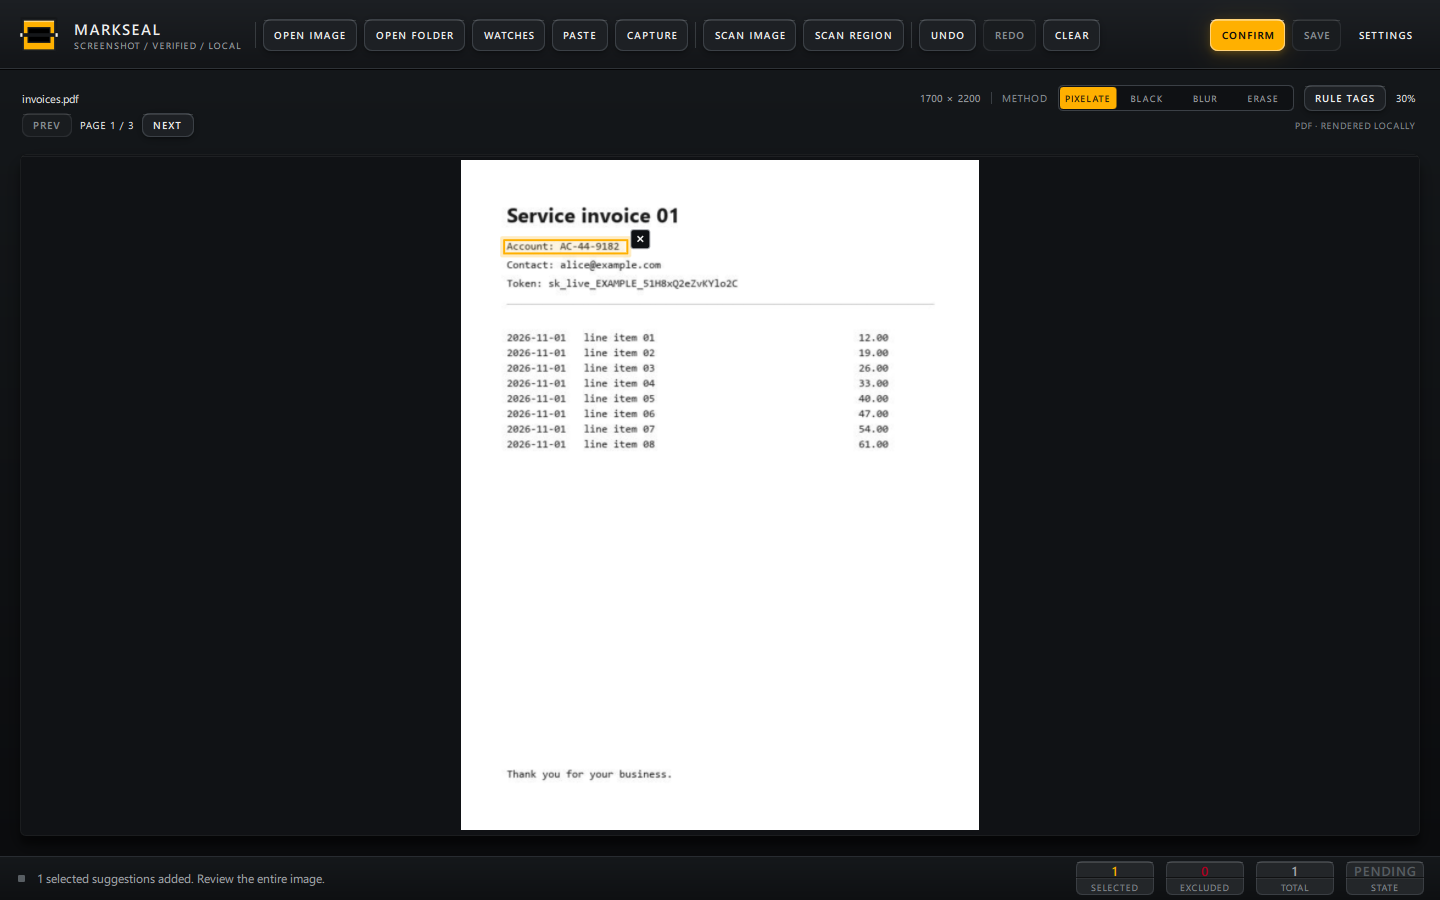
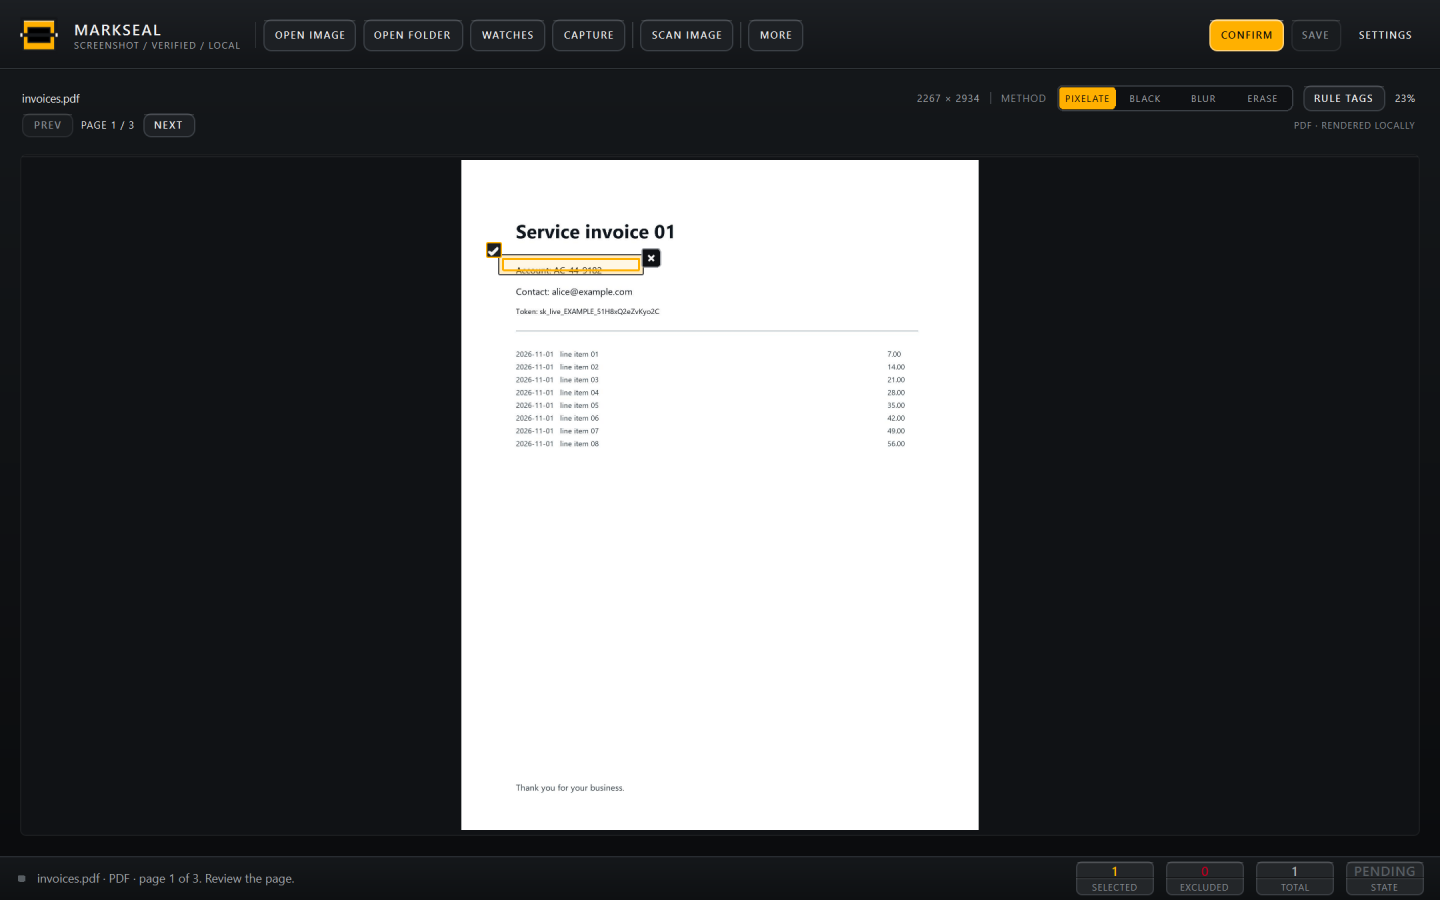
Simplify the review toolbar

diff --git a/markseal/qml/Toolbar.qml b/markseal/qml/Toolbar.qml
@@ -11,14 +11,11 @@ Item {
     signal captureClicked()
     signal watchesClicked()
 
-    readonly property bool wide: width >= 1360
-    readonly property bool scanWide: width >= 1240
     readonly property bool canScan: Backend.review.hasImage && !Backend.batch.busy && !Backend.review.confirmed
     readonly property bool canConfirm: Backend.review.hasImage && !Backend.batch.busy && !Backend.review.confirmed
 
     Shortcut {
         sequence: "Alt+M"
-        enabled: !toolbar.wide
         onActivated: overflow.popup(moreButton, moreButton.width - overflow.width,
                                     moreButton.height + 6)
     }
@@ -141,15 +138,6 @@ Item {
         }
 
         ConcourseButton {
-            text: "PASTE"
-            compact: true
-            tip: "Paste an image from the clipboard (Ctrl+V)"
-            visible: toolbar.wide
-            enabled: !Backend.batch.busy
-            onClicked: Backend.pasteImage()
-        }
-
-        ConcourseButton {
             text: "CAPTURE"
             compact: true
             tip: "Capture a region of the screen"
@@ -173,15 +161,6 @@ Item {
             onClicked: Backend.review.find()
         }
 
-        ConcourseButton {
-            text: "SCAN REGION"
-            compact: true
-            visible: toolbar.scanWide
-            tip: "Drag around one area to scan just that text"
-            enabled: toolbar.canScan
-            onClicked: Backend.review.beginScanArea()
-        }
-
         Rectangle {
             Layout.preferredWidth: 1
             Layout.preferredHeight: 26
@@ -190,55 +169,15 @@ Item {
         }
 
         ConcourseButton {
-            text: "UNDO"
-            compact: true
-            visible: toolbar.wide
-            tip: "Undo the last box (Ctrl+Z)"
-            enabled: Backend.review.hasImage && Backend.review.totalBoxes > 0
-            onClicked: Backend.review.undo()
-        }
-
-        ConcourseButton {
-            text: "REDO"
-            compact: true
-            visible: toolbar.wide
-            tip: "Redo the last undone box (Ctrl+Shift+Z)"
-            enabled: Backend.review.canRedo
-            onClicked: Backend.review.redo()
-        }
-
-        ConcourseButton {
-            text: "CLEAR"
-            compact: true
-            tip: "Remove every box from this image"
-            visible: toolbar.wide
-            enabled: Backend.review.hasImage && Backend.review.totalBoxes > 0
-            onClicked: Backend.review.clearBoxes()
-        }
-
-        ConcourseButton {
             id: moreButton
             text: "MORE"
             compact: true
             tip: overflow.visible ? "" : "More actions (Alt+M)"
-            visible: !toolbar.wide
             onClicked: overflow.popup(moreButton, moreButton.width - overflow.width,
                                       moreButton.height + 6)
         }
 
         Item { Layout.fillWidth: true }
-
-        ConcourseButton {
-            text: "REDACT ALL"
-            compact: true
-            variant: "secondary"
-            tip: "Select every box and apply it in one click"
-            visible: toolbar.wide && Backend.review.hasImage && Backend.review.totalBoxes > 0
-                     && !Backend.review.confirmed
-                     && Backend.review.selectedCount < Backend.review.totalBoxes
-            enabled: toolbar.canConfirm && Backend.review.totalBoxes > 0
-            onClicked: Backend.review.redactAll()
-        }
 
         ConcourseButton {
             text: Backend.review.confirmLabel
@@ -281,25 +220,6 @@ Item {
             border.color: Theme.hairline
         }
 
-        MenuAction {
-            text: "Open image  (Ctrl+O)"
-            enabled: !Backend.batch.busy
-            onTriggered: Backend.openImage()
-        }
-        MenuAction {
-            text: "Open folder  (Ctrl+Shift+O)"
-            enabled: !Backend.batch.busy
-            onTriggered: Backend.openFolder()
-        }
-        MenuAction {
-            text: "Watched folders"
-            onTriggered: toolbar.watchesClicked()
-        }
-        MenuAction {
-            text: "Capture region"
-            enabled: !Backend.batch.busy
-            onTriggered: toolbar.captureClicked()
-        }
         MenuAction {
             text: "Paste image  (Ctrl+V)"
             onTriggered: Backend.pasteImage()

diff --git a/docs/getting-started.md b/docs/getting-started.md
@@ -26,7 +26,7 @@ Personal-data detection also needs the bundled PII model. Release installers inc
 
 ## Open a screenshot or PDF
 
-Use **Open image**, **Paste** (Ctrl+V), or drag an image anywhere onto the window. Dragging a folder opens folder mode. A copied image or a copied image file works with Paste.
+Use **Open image**, paste with Ctrl+V, or drag an image anywhere onto the window. Dragging a folder opens folder mode. A copied image or a copied image file works with paste.
 
 MarkSeal opens PNG, JPEG, BMP, and TIFF images, plus PDF documents. A PDF opens one file at a time; use the page bar to move between pages. Folder mode remains image-only.
 
@@ -42,7 +42,7 @@ PDFs render locally at 200 DPI, capped at 40 million pixels. There is no PDF tex
 
 1. Click **Scan image**. The banner above the screenshot shows the OCR stage and progress while the rest of the window stays responsive.
 2. Suggestions start selected. Click a box to exclude it, click again to include it, or press Delete / click the X to remove it.
-3. Drag on the image to add a manual box. If you need only a small area, use **Scan region**.
+3. Drag on the image to add a manual box. If you need only a small area, open **More** and choose **Scan a region**.
 4. Turn on **Rule tags** in the viewer caption to see why a box was suggested. The tags are review-only and are never exported.
 5. Press **Confirm** to apply the selected boxes to the preview. **Revise** brings the outlines back if you need to change the selection.
 
@@ -81,7 +81,7 @@ Only selected boxes are applied and included in the log. Review the log before s
 | Space | Include or exclude the focused box |
 | Delete | Remove the focused box |
 | Esc | Cancel an area or anchor drag |
-| Alt+M | Open the More menu on a narrow window |
+| Alt+M | Open the More menu |
 
 Tab reaches the toolbar, then the viewer. With the viewer focused, arrow keys move between boxes.
 

diff --git a/docs/reviewing.md b/docs/reviewing.md
@@ -22,7 +22,7 @@ Use the mouse wheel over the image to zoom around the pointer. Right-click and d
 
 ## Scan a region
 
-For small text missed by a full-image scan, zoom in, click **Scan region**, and drag tightly around the text. A banner names the active mode and offers **Cancel**; Esc also cancels. The app scans an enlarged copy of the selected original pixels and adds boxes to the original image. A narrow region is treated as a single text line. An area scan does not mark the full image as scanned.
+For small text missed by a full-image scan, zoom in, open **More**, choose **Scan a region**, and drag tightly around the text. A banner names the active mode and offers **Cancel**; Esc also cancels. The app scans an enlarged copy of the selected original pixels and adds boxes to the original image. A narrow region is treated as a single text line. An area scan does not mark the full image as scanned.
 
 ## Capture a region
 
